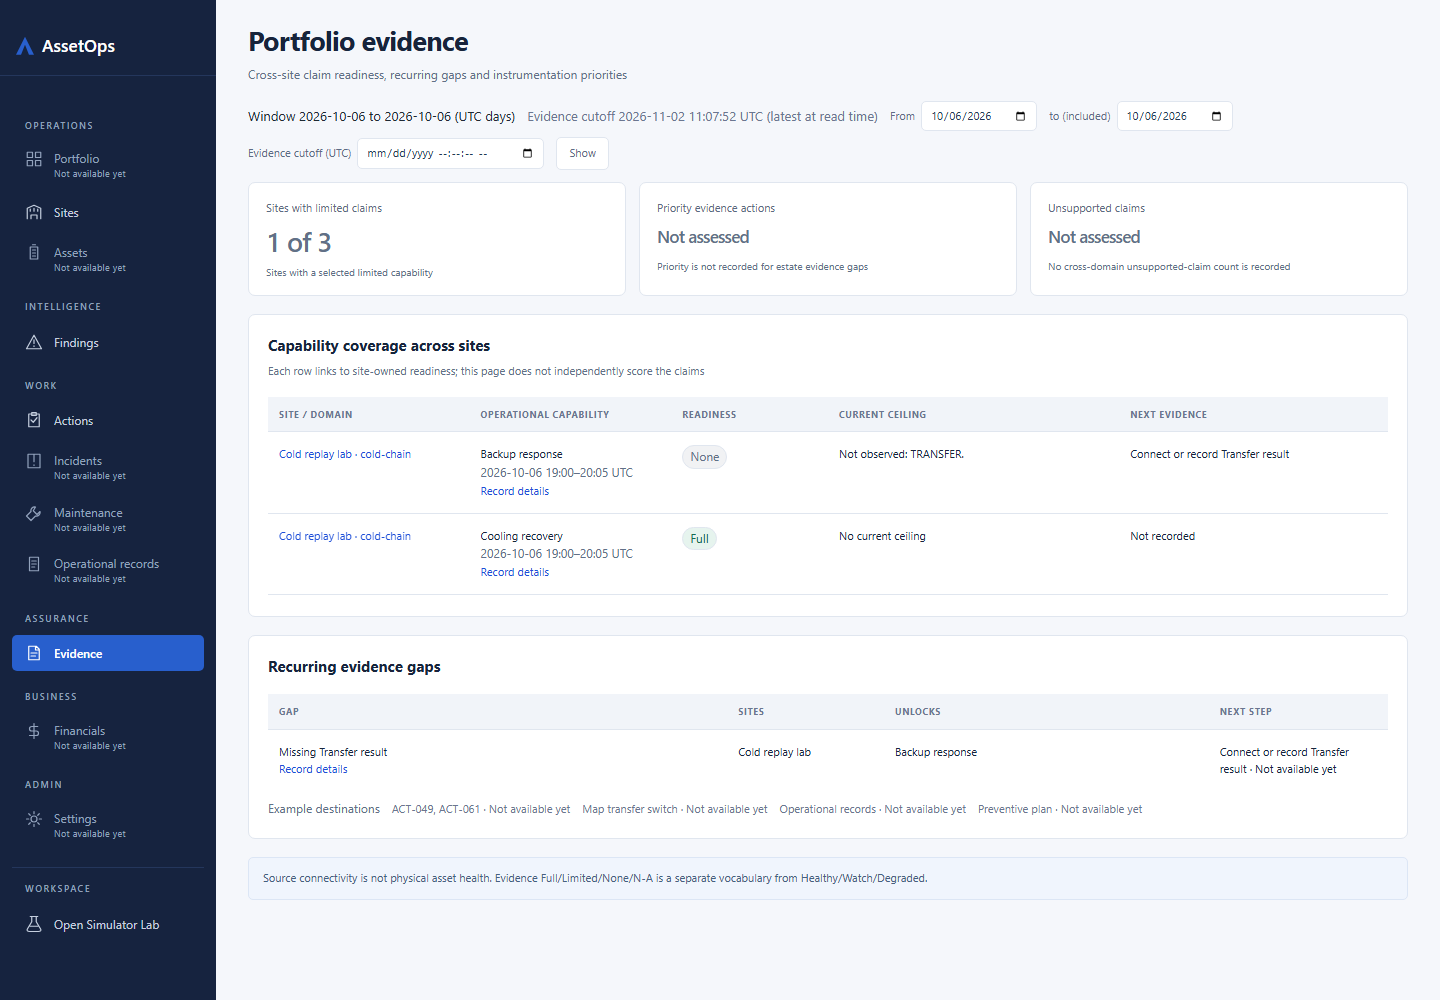
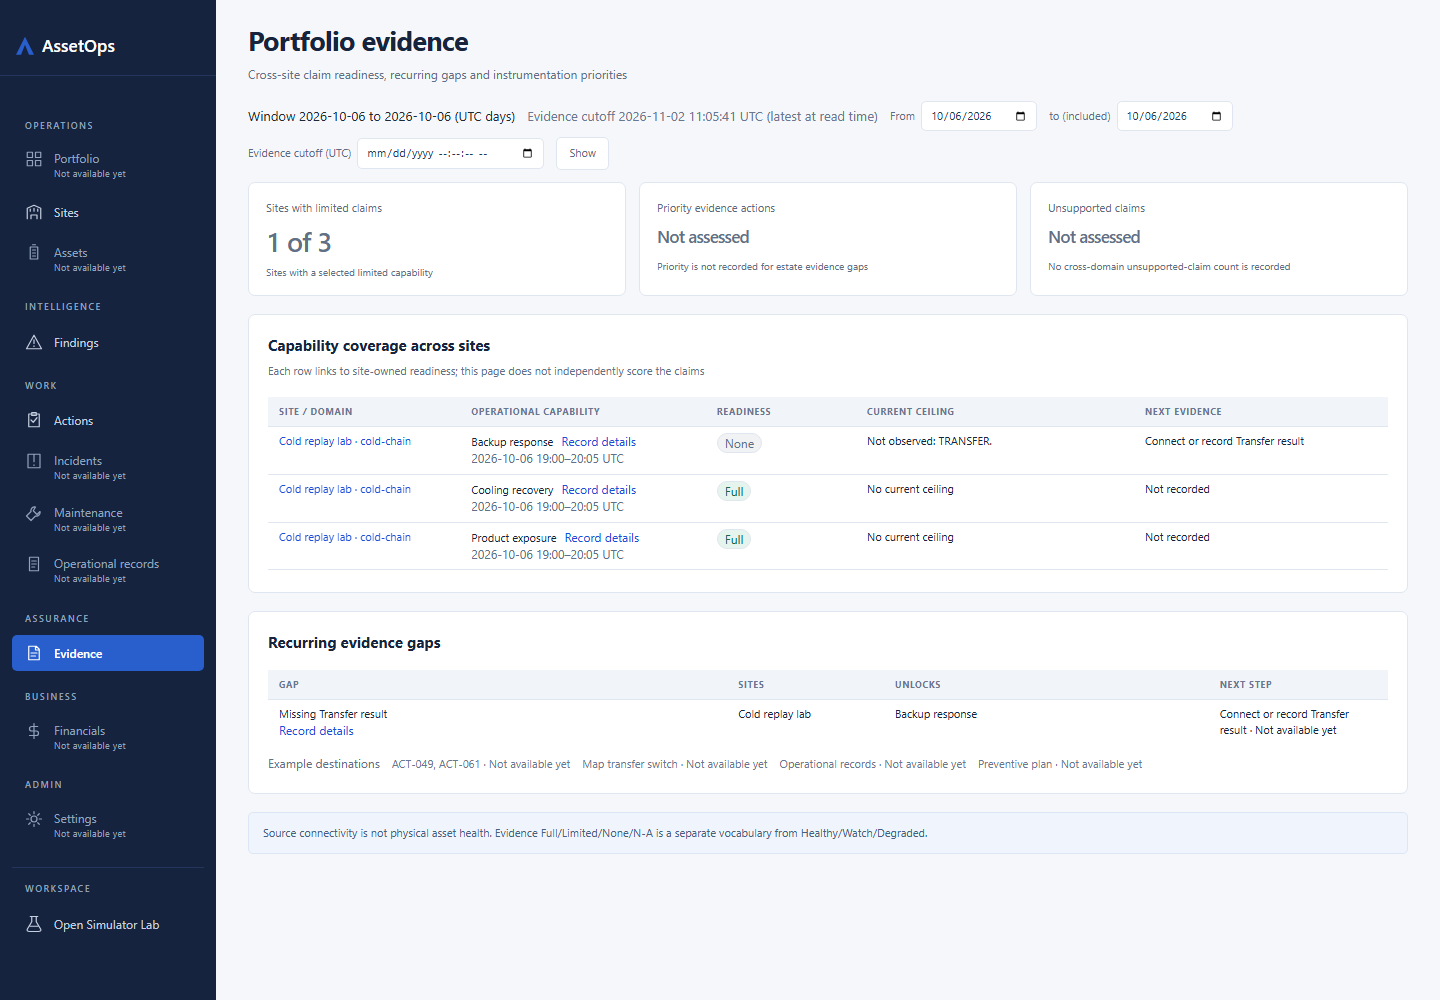
W3-02 commit 2 Lane B fixes: two-line capability cell, 176 px coverage list (3 rows), phone-width wrapping; recaptured 1440/390

diff --git a/frontend/src/estate/__tests__/estateEvidence.test.tsx b/frontend/src/estate/__tests__/estateEvidence.test.tsx
@@ -258,8 +258,9 @@ describe("W3-02 estate Evidence root", () => {
       "Cold replay lab · cold-chain",
       "EV charging lab · EV charging",
     ]);
-    expect(cells[0][1].textContent).toContain("Generator support2026-10-14 00:00 – 2026-10-15 00:00 UTC");
-    expect(cells[1][1].textContent).toContain("Temperature compliance2026-10-14 08:00–16:00 UTC");
+    const capability = (cell: HTMLElement) => [cell.querySelector(".estate-evidence-label")?.textContent, cell.querySelector(".estate-evidence-meta")?.textContent];
+    expect(capability(cells[0][1])).toEqual(["Generator support", "2026-10-14 00:00 – 2026-10-15 00:00 UTC"]);
+    expect(capability(cells[1][1])).toEqual(["Temperature compliance", "2026-10-14 08:00–16:00 UTC"]);
     expect(cells.map((c) => c[2].querySelector("[data-estate-readiness]")?.textContent)).toEqual(["Limited", "Full", "Unknown"]);
     expect(cells[0][2].querySelector("[data-estate-readiness]")?.className).toContain("estate-tone--amber");
     expect(cells[1][2].querySelector("[data-estate-readiness]")?.className).toContain("estate-tone--green");

diff --git a/frontend/src/estate/estateEvidence.css b/frontend/src/estate/estateEvidence.css
@@ -59,7 +59,7 @@
 }
 
 .estate-evidence-table .data-table td {
-  padding: 7px 11px;
+  padding: 6px 11px;
 }
 
 .estate-evidence-table .data-table thead th {
@@ -75,14 +75,19 @@
   display: block;
   color: var(--text-secondary);
   font-size: 12px;
+  white-space: nowrap;
 }
 
-.estate-evidence-meta__window {
+.estate-evidence-label {
   margin-right: 8px;
 }
 
+.estate-evidence-table .disclosure--inline > .disclosure__summary {
+  font-size: 12px;
+}
+
 .estate-evidence-table--coverage .data-table__scroll {
-  max-height: 188px;
+  max-height: 176px;
 }
 
 .estate-evidence-table--gaps .data-table__scroll {
@@ -144,6 +149,12 @@
 }
 
 @media (max-width: 640px) {
+  /* Let headers and the window wrap at phone width so the tables stay near the mock's 531 / 337 px. */
+  .estate-evidence-table .data-table thead th,
+  .estate-evidence-meta {
+    white-space: normal;
+  }
+
   .estate-evidence-table--coverage .data-table__scroll {
     max-height: 300px;
   }

diff --git a/frontend/src/estate/EstateEvidence.tsx b/frontend/src/estate/EstateEvidence.tsx
@@ -187,11 +187,12 @@ function CoverageRow({ row, asOf }: { row: EvidenceRow; asOf: string }) {
         ) : null}
       </td>
       <td>
-        <span className="estate-cell__primary">{row.capability_label}</span>
-        <span className="estate-evidence-meta">
-          {window !== null ? <span className="estate-evidence-meta__window">{window}</span> : null}
+        {/* Two lines (label + Record details, then the window) keep the mock's three-row coverage list. */}
+        <span className="estate-cell__primary">
+          <span className="estate-evidence-label">{row.capability_label}</span>
           <RowDetails row={row} />
         </span>
+        {window !== null ? <span className="estate-evidence-meta">{window}</span> : null}
       </td>
       <td>
         <Chip tone={readiness.tone} text={readiness.text} data={{ "data-estate-readiness": row.readiness }} />
